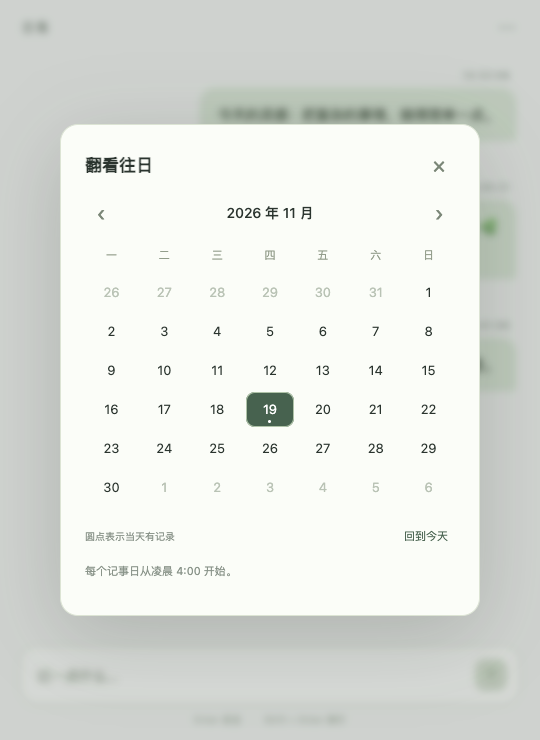
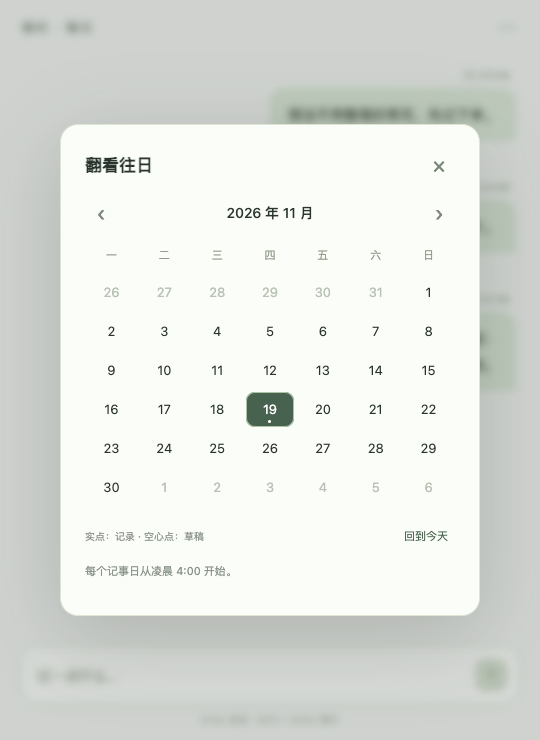
Rename app to 随时 · 随记 and preserve existing user data

diff --git a/src/index.html b/src/index.html
@@ -7,12 +7,12 @@
       http-equiv="Content-Security-Policy"
       content="default-src 'self'; script-src 'self'; style-src 'self'; img-src 'self' data:; connect-src 'none'; object-src 'none'; base-uri 'none'; form-action 'none'"
     />
-    <title>日笺 · Daynote</title>
+    <title>随时 · 随记</title>
     <link rel="stylesheet" href="styles.css" />
   </head>
   <body>
     <header class="titlebar">
-      <span id="page-title">日笺</span
+      <span id="page-title">随时 · 随记</span
       ><button
         id="more"
         class="icon-button"
@@ -140,7 +140,7 @@
       <p class="muted">
         窗口默认置顶。未发送内容会自动保存为草稿，意外退出后重新打开可恢复。请留意输入框下方的保存状态。
       </p>
-      <button id="quit" class="text-button danger">退出日笺</button>
+      <button id="quit" class="text-button danger">退出随时 · 随记</button>
     </dialog>
     <div id="toast" role="status" hidden></div>
     <script src="renderer.js"></script>

diff --git a/src/renderer.js b/src/renderer.js
@@ -139,7 +139,7 @@ function apply(next) {
   month = new Date(date.getFullYear(), date.getMonth(), 1, 12);
   $("page-title").textContent =
     state.date === state.today
-      ? "日笺"
+      ? "随时 · 随记"
       : `${date.getMonth() + 1}月${date.getDate()}日 · 往日记录`;
   $("menu-date").textContent =
     `${state.date}${state.date === state.today ? " · 今天" : ""}`;

diff --git a/docs/release-notes.md b/docs/release-notes.md
@@ -1,4 +1,8 @@
-日笺的第一个版本：一个默认置顶的聊天式桌面记事窗口。
+v1.0.1：日笺正式更名为“随时 · 随记”。应用窗口、系统菜单、快捷方式、安装包与仓库统一使用新名称。
+
+继续使用原有 Daynote 数据目录，已有记录、未发送草稿和快捷键设置保持兼容。升级后如已开启自启动，请在新应用的设置中重新开启，以更新启动路径。
+
+一个默认置顶的聊天式桌面记事窗口：
 
 - 每条记录显示到秒，Enter 发送、Shift + Enter 换行。
 - 右上角「⋯」打开日历，按日期查看历史；凌晨 4 点自动翻页。
